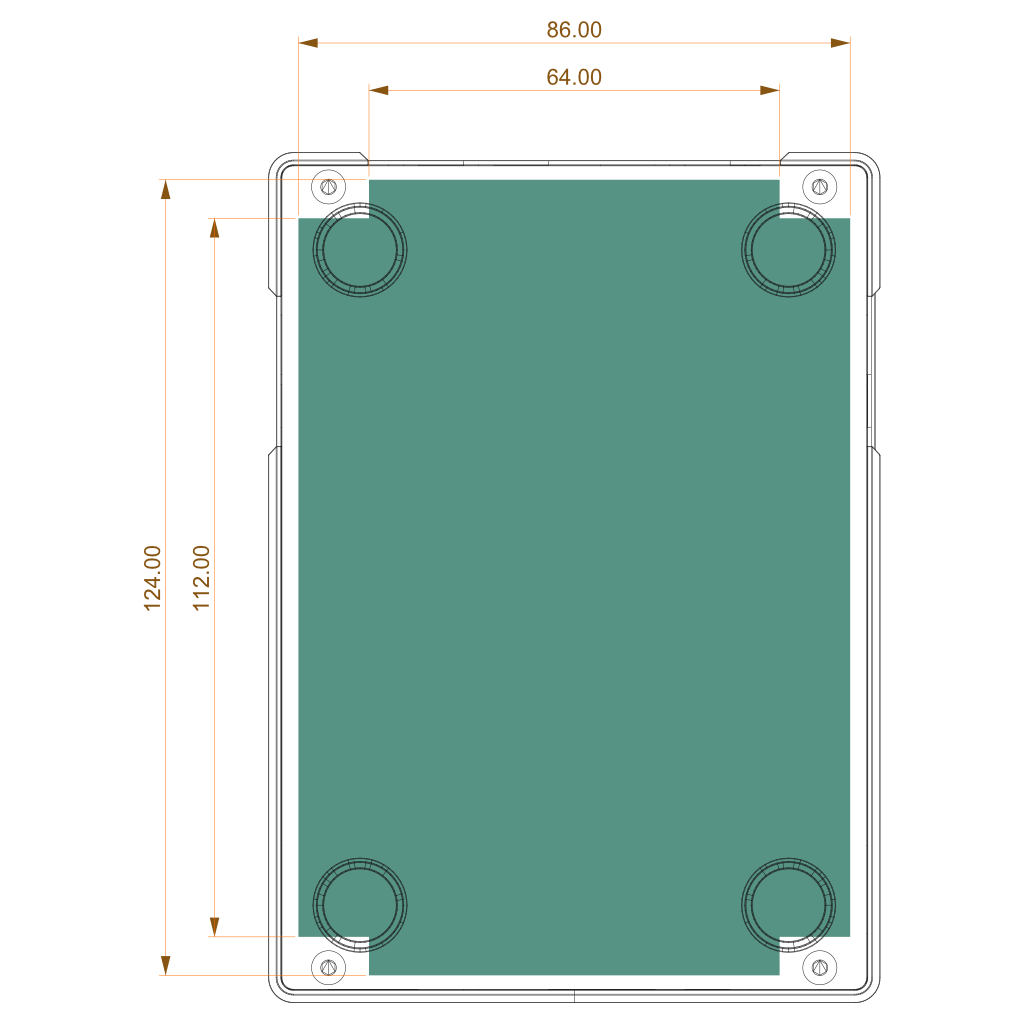
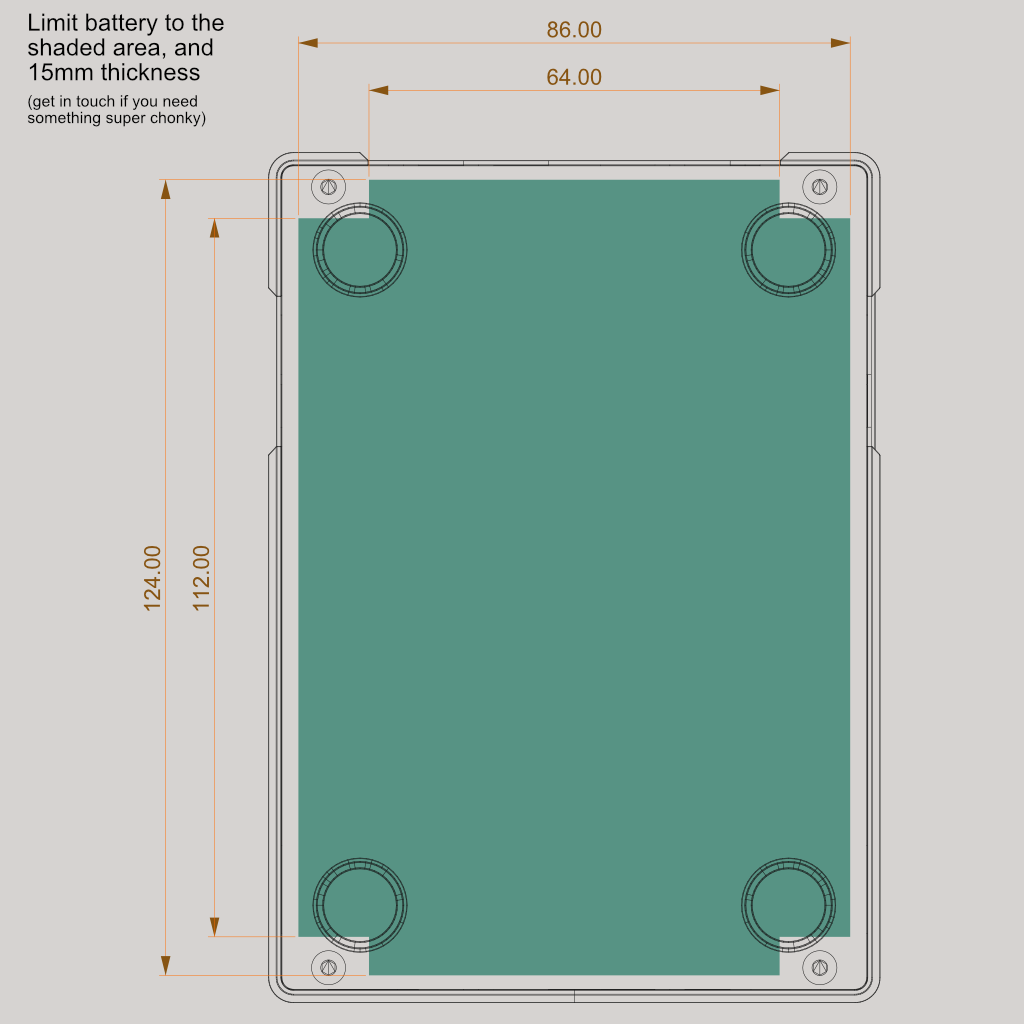
.

diff --git a/checkout/checkout.js b/checkout/checkout.js
@@ -59,15 +59,15 @@ function initTestMode() {
     }
 }
 
-// document.addEventListener("keydown", (event) => {
-//     const isToggle =
-//         (event.key === "t" || event.key === "T") &&
-//         // event.ctrlKey &&
-//         event.shiftKey;
-//     if (!isToggle) return;
-//     event.preventDefault();
-//     setTestMode(!testModeEnabled);
-// });
+document.addEventListener("keydown", (event) => {
+    const isToggle =
+        (event.key === "t" || event.key === "T") &&
+        // event.ctrlKey &&
+        event.shiftKey;
+    if (!isToggle) return;
+    event.preventDefault();
+    setTestMode(!testModeEnabled);
+});
 
 initTestMode();
 
